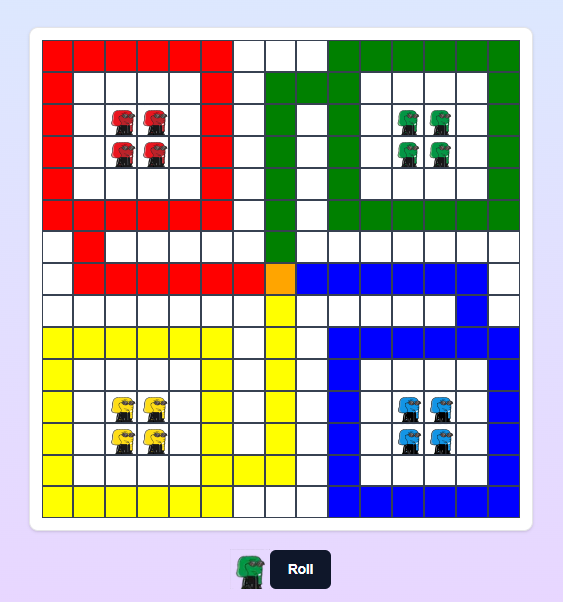
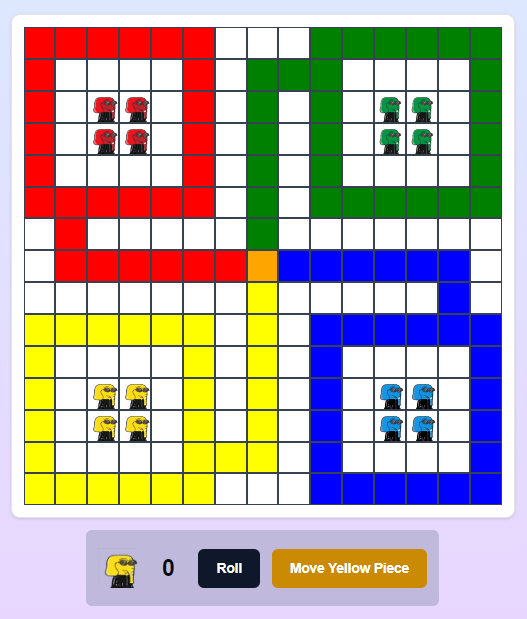
tried adding proper movement logic - not working yet

diff --git a/utils/ao.ts b/utils/ao.ts
@@ -81,8 +81,6 @@ export async function diceRoll(): Promise<void> {
             process: PROCESS_ID,
         })
 
-        //console.log("Dice Roll: ", resultOutput)
-        //console.log('Result output:', JSON.stringify(resultOutput, null, 2));
 
         if (resultOutput && resultOutput.Messages && resultOutput.Messages.length > 0) {
             const messageData = JSON.parse(resultOutput.Messages[0].Data);
@@ -98,78 +96,46 @@ export async function diceRoll(): Promise<void> {
     }
 }
 
-export async function saveScore(walletAddress: string, score: number): Promise<void> {
+// Function to move the yellow piece
+export async function moveYellowPiece(): Promise<{ row: number, col: number } | void> {
     try {
         const { signer } = await getAOInstance();
 
-        // Send the score-saving message
+        // Send message to AO process to handle the movement of yellow piece
         const messageOutput = await message({
             process: PROCESS_ID,
             signer,
             tags: [
-                { name: 'Action', value: 'SaveScore' },
-                { name: 'Score', value: score.toString() },
-                { name: 'Wallet', value: walletAddress },
-            ],
-            data: score.toString(),
+                { name: 'Action', value: 'MoveYellowPiece' }
+            ]
         });
 
-        console.log('Save score message sent:', messageOutput);
-
-        // Get the result of saving the score
+        // Fetch the result from AO process
         const resultOutput = await result({
             message: messageOutput,
             process: PROCESS_ID,
         });
 
-        console.log('Save score result:', JSON.stringify(resultOutput, null, 2));
-
-        if (!resultOutput) {
-            throw new Error('Failed to save score: ' + JSON.stringify(resultOutput));
-        }
-    } catch (error) {
-        console.error('Error saving score:', error);
-        throw error;
-    }
-}
-
-export async function fetchAllScores(): Promise<{ player: string; score: number; timestamp: number }[]> {
-    try {
-        const { signer } = await getAOInstance();
-
-        // Send a request to fetch all scores
-        const messageOutput = await message({
-            process: PROCESS_ID,
-            signer,
-            tags: [{ name: 'Action', value: 'GetAllScores' }],
-            data: '',
-        });
-
-        console.log('Fetch all scores message sent:', messageOutput);
-
-        // Get the result of fetching scores
-        const resultOutput = await result({
-            message: messageOutput,
-            process: PROCESS_ID,
-        });
-
-        console.log('Fetch scores result:', JSON.stringify(resultOutput, null, 2));
-
+        // Check and parse the result
         if (resultOutput && resultOutput.Messages && resultOutput.Messages.length > 0) {
             const messageData = JSON.parse(resultOutput.Messages[0].Data);
 
-            if (messageData.status === 'success' && Array.isArray(messageData.data)) {
-                return messageData.data.map((item: any) => ({
-                    player: item.wallet || 'Unknown',
-                    score: item.score || 0,
-                    timestamp: Math.floor(item.timestamp / 1000) // Convert to seconds
-                }));
-            }
-        }
+            // Log messageData for debugging
+            console.log('Message Data:', messageData);
 
-        return [];
+
+
+            // Extract new position from the message data
+            const { newPosition } = messageData;
+            const { row, col } = newPosition;
+
+            console.log(`Yellow piece moved to: Row ${row}, Col ${col}`);
+
+            // Return the new position to update the frontend
+            return { row, col };
+        }
     } catch (error) {
-        console.error('Error fetching all scores:', error);
+        console.error('Error moving yellow piece:', error);
         throw error;
     }
 }

diff --git a/app/page.tsx b/app/page.tsx
@@ -1,14 +1,19 @@
 "use client";
 import './globals.css'
-import { diceRoll } from '@/utils/ao'
-import Image from 'next/image';
-import InteractiveGrid from '@/components/grid';
 import { useState } from 'react';
+import Image from 'next/image';
+import { diceRoll, moveYellowPiece } from '@/utils/ao'
+import InteractiveGrid from '@/components/grid';
+
+//import { useLudoGameContext } from "@/context/GameContext";
+//import LandingPage from "@/components/LandingPage"; // Import your LandingPage component
+//import WaitingRoom from "@/components/WaitingRoom"; // Import your WaitingRoom component
 
 export default function Home() {
 
   const [dice, setDice] = useState<number>(0);
   const [loading, setLoading] = useState<boolean>(false); // New loading state
+  const [yellowPosition, setYellowPosition] = useState<{ row: number; col: number }>({ row: 13, col: 6 });
 
   async function diceRollClick() {
     setLoading(true);
@@ -27,13 +32,32 @@ export default function Home() {
     }
   }
 
+  // Function to handle yellow piece movement click
+  async function moveYellowPieceClick() {
+    setLoading(true);
+    try {
+      const newPosition = await moveYellowPiece();
+      if (newPosition) {
+        setYellowPosition(newPosition);
+        console.log(`Yellow piece moved to Row: ${newPosition.row}, Col: ${newPosition.col}`);
+        console.log(`yellow positon : ${yellowPosition}`)
+      } else {
+        console.error("Failed to get the new position of the yellow piece.");
+      }
+    } catch (error) {
+      console.error("Error moving yellow piece:", error);
+    } finally {
+      setLoading(false);
+    }
+  }
+
+
 
   return (
     <main className="flex flex-col items-center justify-center py-6">
-
       <InteractiveGrid />
       <div className='flex items-center py-6 bg-opacity-30 bg-slate-500 mt-4 rounded-lg px-4'>
-        <Image src="/greenDum.png" alt="Green DumDum" height='40' width='40' />
+        <Image src="/yellowDum.png" alt="Green DumDum" height='40' width='40' />
         <p className='flex text-3xl px-8 py-1 font-semibold '>{dice}</p>
         <button
           onClick={diceRollClick}
@@ -42,7 +66,16 @@ export default function Home() {
         >
           {loading ? 'Rolling...' : 'Roll'} {/* Show loading text */}
         </button>
+        <button
+          onClick={moveYellowPieceClick}
+          className={`ml-4 bg-yellow-600 hover:bg-yellow-500 rounded-lg text-white px-6 py-3 text-lg font-semibold transition duration-300 ease-in-out flex items-center ${loading ? 'cursor-not-allowed opacity-50' : ''}`}
+          disabled={loading}
+        >
+          {loading ? 'Moving...' : 'Move Yellow Piece'}
+        </button>
       </div>
+
+
 
     </main>
   );

diff --git a/components/grid.tsx b/components/grid.tsx
@@ -1,6 +1,6 @@
 'use client'
 
-import React, { useState } from 'react'
+import React, { useEffect, useState } from 'react'
 import { Card } from "@/components/ui/card"
 
 const GRID_SIZE = 15
@@ -47,25 +47,30 @@ export default function InteractiveGrid() {
 
     // change it once starting building the logic
     // Initial red Position
-    placePiece(2, 2, '/redDum.png');
-    placePiece(3, 2, '/redDum.png');
-    placePiece(2, 3, '/redDum.png');
-    placePiece(3, 3, '/redDum.png');
+    useEffect(() => {
+        const initialSetup = () => {
+            placePiece(2, 2, '/redDum.png');
+            placePiece(3, 2, '/redDum.png');
+            placePiece(2, 3, '/redDum.png');
+            placePiece(3, 3, '/redDum.png');
 
-    placePiece(2, 11, '/greenDum.png');
-    placePiece(3, 11, '/greenDum.png');
-    placePiece(2, 12, '/greenDum.png');
-    placePiece(3, 12, '/greenDum.png');
+            placePiece(2, 11, '/greenDum.png');
+            placePiece(3, 11, '/greenDum.png');
+            placePiece(2, 12, '/greenDum.png');
+            placePiece(3, 12, '/greenDum.png');
 
-    placePiece(11, 2, 'yellowDum.png');
-    placePiece(12, 2, 'yellowDum.png');
-    placePiece(11, 3, 'yellowDum.png');
-    placePiece(12, 3, 'yellowDum.png');
+            placePiece(11, 2, 'yellowDum.png');
+            placePiece(12, 2, 'yellowDum.png');
+            placePiece(11, 3, 'yellowDum.png');
+            placePiece(12, 3, 'yellowDum.png');
 
-    placePiece(11, 11, 'blueDum.png');
-    placePiece(12, 11, 'blueDum.png');
-    placePiece(11, 12, 'blueDum.png');
-    placePiece(12, 12, 'blueDum.png');
+            placePiece(11, 11, 'blueDum.png');
+            placePiece(12, 11, 'blueDum.png');
+            placePiece(11, 12, 'blueDum.png');
+            placePiece(12, 12, 'blueDum.png');
+        };
+        initialSetup()
+    }, [gridState]);
 
     // red box
     for (let i = 0; i < 6; i++) {

diff --git a/components/Header.tsx b/components/Header.tsx
@@ -1,16 +1,15 @@
 "use client";
 import Image from "next/image";
-import { Irish_Grover } from 'next/font/google';
+import { Sour_Gummy } from 'next/font/google';
 import { connectToArConnect, disconnectFromArConnect } from '@/utils/arconnect';
 import { initializeAO, resetAOConnection } from '../utils/ao';
 import { useState } from "react";
 
 
-const irishGrover = Irish_Grover({
+const sourGummy = Sour_Gummy({
     subsets: ['latin'],
     weight: '400', // Irish Grover typically comes in regular weight
 });
-
 export default function Home() {
 
     const [walletAddress, setWalletAddress] = useState<string | null>(null);
@@ -62,8 +61,8 @@ export default function Home() {
         <nav className="flex items-center justify-between px-28 py-2  overflow-hidden">
             <Image src={"/DumRoll.png"} alt={"ludumix_logo"} width={260} height={180} />
 
-            <div className={irishGrover.className}>
-                <h1 className="font-bold text-6xl overflow-hidden">
+            <div className={sourGummy.className}>
+                <h1 className="font-bold text-6xl">
                     Play Ludo On AO!
                 </h1>
             </div>

diff --git a/README.md b/README.md
@@ -1,12 +1,14 @@
-Here's a sample README for **DumRoll: Decentralized Ludo on Arweave**, complete with a structure to add images once you have them.
+**DumRoll: Decentralized Ludo on Arweave**
 
 ---
 
 # DumRoll 🕹
 
+### Disclaimer: Not Completely working , but not Broken. Work In Progress!
+
 **Ludo Chain** is a decentralized, Web3-powered version of the classic Ludo board game. Built on Arweave's permaweb, it offers a secure, permanent, and trustless gaming experience. Featuring real-time multiplayer interactions through **aoConnect** and verifiable dice rolls, this dApp brings traditional board gaming into the blockchain era.
 
-![DumRoll Banner](./public/ludo-banner.png)
+![DumRoll Banner](./public/ludo-banner-1.png)
 
 ## 🚀 Features
 
@@ -107,8 +109,8 @@ If you have any feedback or suggestions, feel free to open an issue or reach out
 
 ### 📧 Contact
 
-- **Email**: [your-email@example.com](mailto:your-email@example.com)
-- **Twitter**: [@yourusername](https://twitter.com/yourusername)
+- **Email**: [0xm3et@gmail.com](mailto:0xm3et@gmail.com)
+- **Twitter**: [@0xM3ET](https://x.com/0xM3ET)
 
 Enjoy the game and dive into decentralized board gaming with **DumRoll**! 🥳
 
